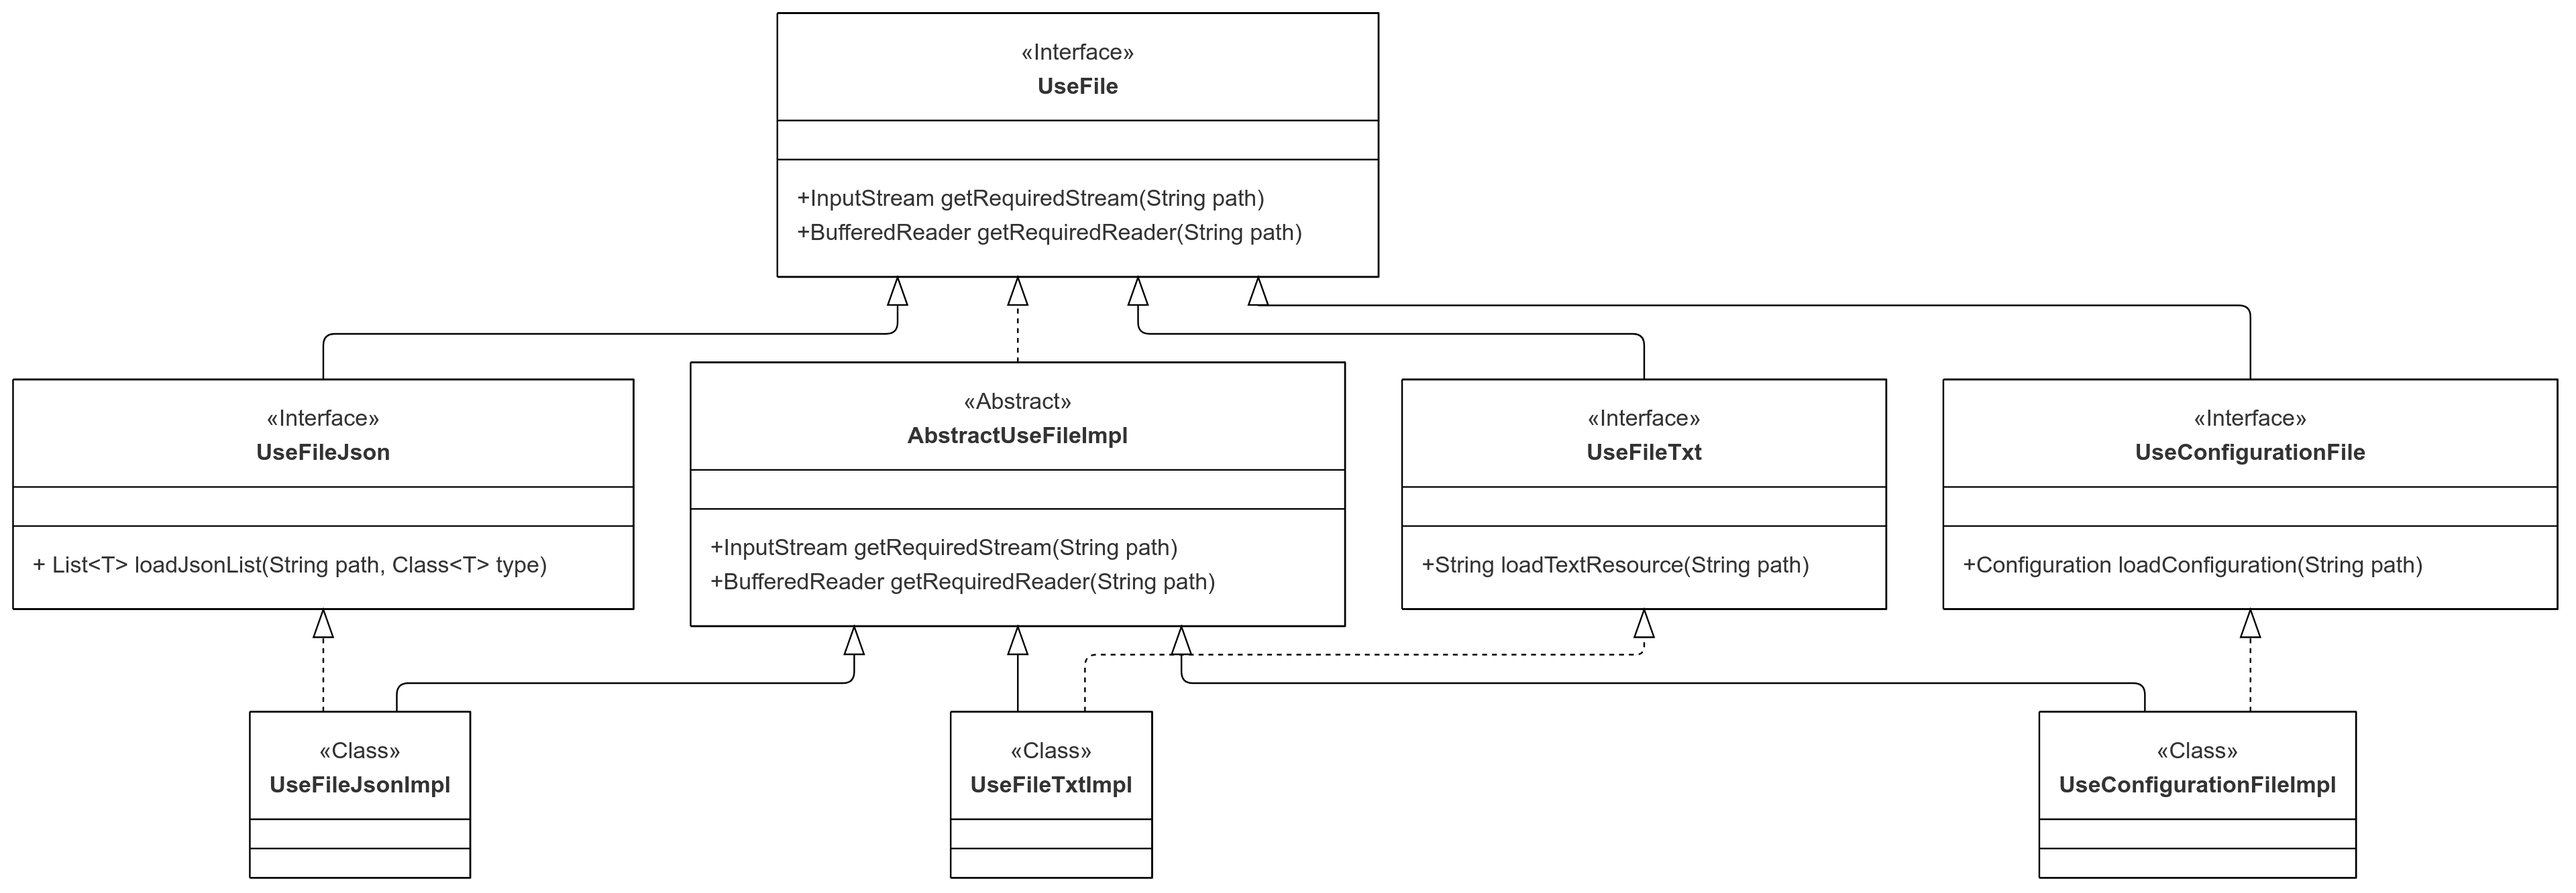
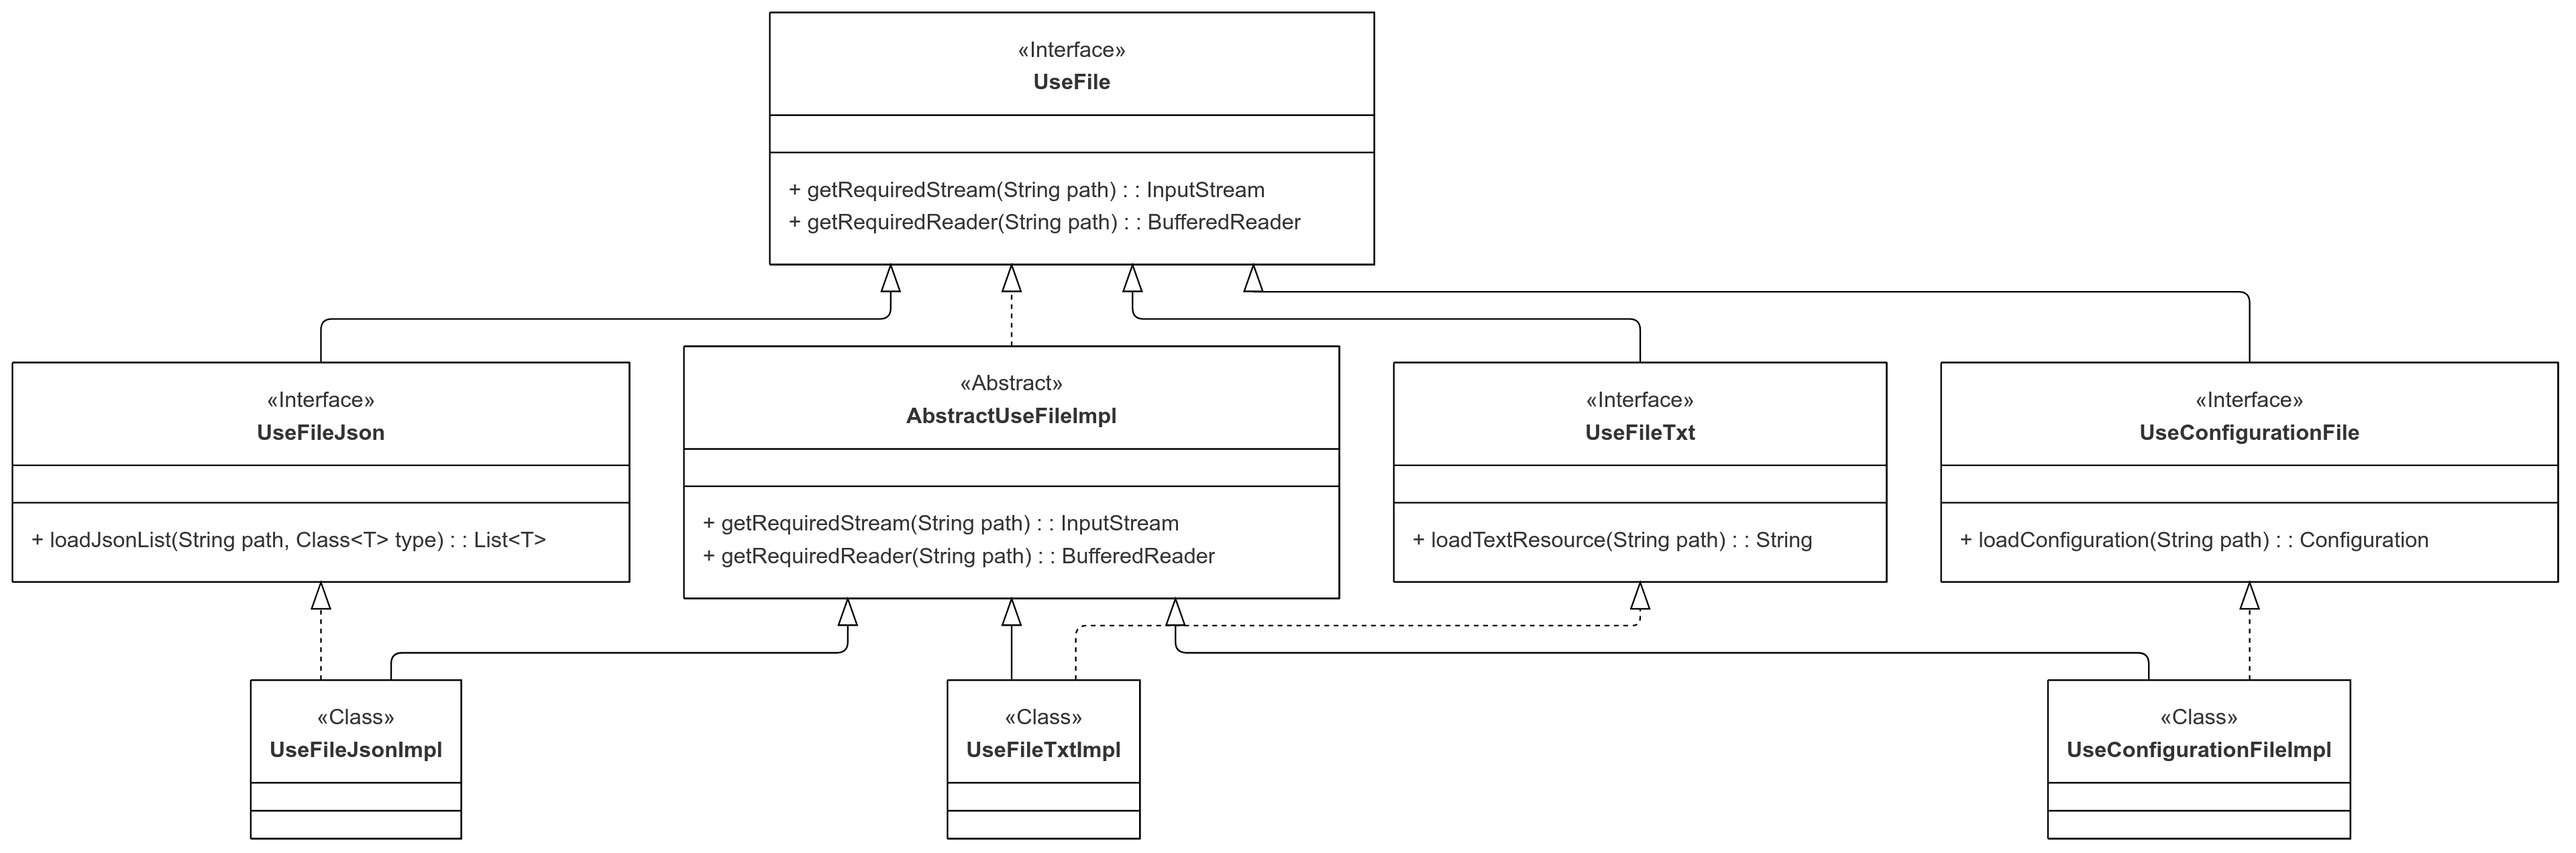
[Report - Prati] Design

diff --git a/report/chapters/02_DesignPrati.tex b/report/chapters/02_DesignPrati.tex
@@ -1,0 +1,101 @@
+\subsection{Lucas Prati}
+
+\subsubsection{Importazione delle risorse di gioco}
+\textbf{Problema}\newline
+All'avvio, il gioco deve importare quattro risorse distinte 
+(carte JSON, impostazioni YAML, testo delle regole e mazzo di “imprevisti”), ognuna con un formato e un parsing dedicati. 
+Se uno di questi file è assente, malformato o non conforme alle specifiche, il caricamento può interrompersi, 
+privando l'applicazione dei dati necessari per avviare la partita o provocando comportamenti incoerenti.
+\dots\newline
+\textbf{Soluzione}\newline
+Abbiamo introdotto un'unica astrazione di lettura, \texttt{UseFile}, e poi tre strategie specializzate:\newline
+\begin{itemize}
+  \item \texttt{UseFileTxt} per il testo semplice,
+  \item \texttt{UseFileJson} per gli array JSON,
+  \item \texttt{UseConfigurationFile} per le coppie chiave-valore del file di configurazione.
+\end{itemize}
+Ciascuna strategia viene implementata in una classe dedicata — \texttt{UseFileTxtImpl, UseFileJsonImpl, UseConfigurationFileImpl} — 
+che utilizza un helper comune (\texttt{AbstractUseFileImpl}) il quale centralizza apertura e chiusura delle risorse, 
+lasciando alle classi implementative solo il compito di trasformare i dati grezzi nel formato richiesto.\newline
+In questo modo il resto dell'applicazione rimane completamente agnostico sull'estrazione dei dati da file: 
+seleziona la strategia corretta e invoca il metodo di caricamento senza occuparsi dei dettagli di I/O o di parsing.\newline
+\begin{figure}[H]
+    \centering
+    \makebox[1.0\textwidth]{\includegraphics[width=1.3\textwidth]{img/prati/UseFile.png}}	
+    \caption{Schema UML dell'importazione delle risorse di gioco}
+	\label{img:UseFile}
+\end{figure}
+
+\subsubsection{Creazione delle tessere di gioco}
+\textbf{Problema}\newline
+All'avvio della partita è necessario tradurre una lista di DTO (Data Transfer Object) 
+deserializzati dal file JSON in vere e proprie caselle di gioco (\texttt{Tile}) e nei relativi contratti di proprietà (\texttt{TitleDeed}).\newline
+È necessario avere un unico punto di creazione per ottenere un codice facile da comprendere, testare e estendere per nuovi tipi di tessere.
+\dots\newline
+\textbf{Soluzione}\newline
+Ho introdotto una singola factory (\texttt{CardFactory}) che si occupa di:\newline
+\begin{itemize}
+  \item Parse: convertire i DTO in oggetti di dominio (\texttt{Tile} e \texttt{TitleDeed}).
+  \item Accesso: restituire le raccolte di caselle e contratti create.
+\end{itemize}
+L'implementazione concreta delega internamente a micro-strategie per distinguere tessere “speciali” da proprietà 
+e applica il Factory Pattern per garantire il Principio Open/Closed (OCP).
+\newline
+\begin{figure}[H]
+    \centering
+    \makebox[1.0\textwidth]{\includegraphics[width=1.3\textwidth]{img/prati/CardFactory.png}}	
+    \caption{Schema UML della creazione delle tessere di gioco}
+	\label{img:CardFactory}
+\end{figure}
+
+\subsubsection{File di configurazione}
+\textbf{Problema}\newline
+All'avvio il gioco legge dal file di configurazione (\texttt{config.yml}) le impostazioni utente (min/max giocatori, dadi, font, saldo iniziale, percorsi file, colori).\newline
+Se il file è assente, malformato o contiene valori non validi, il caricamento può fallire o generare comportamenti inaspettati.\newline
+Per evitare questo, è necessario validare i dati prima di creare l'istanza definitiva e, in caso di errori o incongruenze, 
+ignorare la configurazione utente e ricorrere a valori di default sempre garantiti validi.
+\dots\newline
+\textbf{Soluzione}\newline
+Per gestire in modo modulare e sicuro il caricamento delle impostazioni ho combinato due pattern:\newline
+\begin{itemize}
+  \item Strategy Pattern: 
+        L'interfaccia \texttt{UseConfigurationFile} definisce il contratto per chi legge un file di configurazione, mentre la sua implementazione concreta si occupa di tutto il parsing YAML e della gestione delle eccezioni. \newline
+        In fase di avvio, \texttt{Configuration.configureFromFile(path)} delega a questa strategia e ottiene un oggetto “grezzo” che raccoglie i valori dal file.
+
+  \item Builder Pattern:
+        A questo punto entra in gioco il builder di \texttt{Configuration}: inizializzato sui valori di default, espone metodi per applicare ciascun parametro letto da file. \newline
+        Il builder è “single-use” e, quando si invoca la creazione, viene prima eseguito un controllo di validità.
+        Se ci sono valori mancanti o fuori dominio, anziché propagare l'errore ritorna automaticamente alla configurazione di default.
+
+\end{itemize}
+Grazie a questo approccio, l'istanza definitiva di \texttt{Configuration} viene prodotta solo dopo aver validato ogni parametro, 
+e il gioco parte sempre con un oggetto immutabile e coerente, ignorando silenziosamente eventuali configurazioni non valide.
+\newline
+\begin{figure}[H]
+    \centering
+    \makebox[1.0\textwidth]{\includegraphics[width=1.3\textwidth]{img/prati/Configuration.png}}	
+    \caption{Schema UML della creazione della configurazione di gioco}
+	\label{img:Configuration}
+\end{figure}
+
+\subsubsection{Creazione dei conti bancari secondo la modalità di gioco}
+\textbf{Problema}\newline
+All'avvio della partita, per ogni giocatore occorre creare un \texttt{BankAccount} in base alla modalità di gioco selezionata (\texttt{CLASSIC} vs \texttt{INFINITY}).\newline
+Serve un punto unico di creazione per evitare duplicazioni e rispettare il Principio Open/Closed (OCP).
+\dots\newline
+\textbf{Soluzione}\newline
+Ho applicato il Factory Pattern, definendo l'interfaccia \texttt{BankAccountFactory] e una sua implementazione che, accettando al costruttore il saldo da impostare nei conti correnti 
+e accettando un id e un valore di \texttt{BankAccountType} durante l'invocazione della creazione, restituisce il conto corretto.\newline
+Durante il setup, il controller chiama semplicemente\newline
+	\texttt{factory = new BankAccountFactoryImpl(int);}\newline
+	\texttt{factory.createBankAccountByType(id, bankAccountType);}\newline
+senza mai conoscere i dettagli interni.\newline
+In futuro, per aggiungere nuove modalità, basterà estendere l'enum BankAccountType e aggiornare la casistica nella factory, lasciando intatto il resto dell'applicazione.\newline
+
+\newline
+\begin{figure}[H]
+    \centering
+    \makebox[1.0\textwidth]{\includegraphics[width=1.3\textwidth]{img/prati/BankAccountFactory.png}}	
+    \caption{Schema UML della creazione della configurazione di gioco}
+	\label{img:BankAccountFactory}
+\end{figure}
